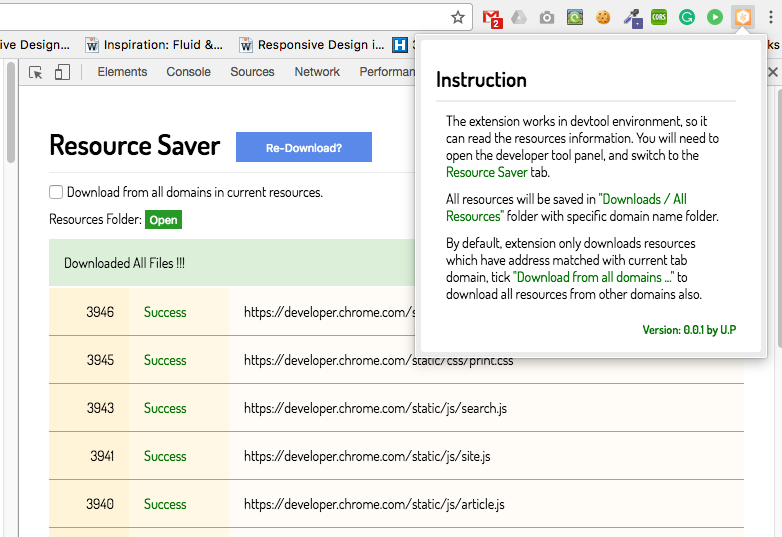
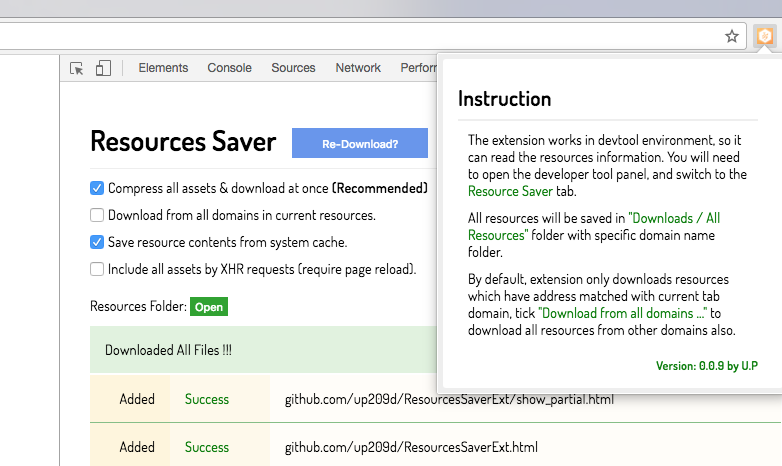
Screenshots updated

diff --git a/unpacked/content.js b/unpacked/content.js
@@ -437,7 +437,7 @@ function addItemsToZipWriter(blobWriter, items, callback) {
       try {
         var tryAtob = atob(item.content);
       } catch (err) {
-        console.log('Not Base64 fallback to text');
+        console.log(item.url, ' is not base64 encoding, fallback to plain text');
         item.encoding = null;
       }
     }
@@ -455,9 +455,10 @@ function addItemsToZipWriter(blobWriter, items, callback) {
           function () {
             // On Success
             addItemsToZipWriter(blobWriter, rest, callback);
-          
+            
+            // Update Report Table
             newList.className = 'each-done';
-            newList.innerHTML = '<li>Done</li><li class="success">Success</li><li>' + item.url + '</li>';
+            newList.innerHTML = '<li>Added</li><li class="success">Success</li><li>' + item.url + '</li>';
             document.getElementById('debug').insertBefore(newList, document.getElementById('debug').childNodes[0]);
           },
           function () {
@@ -465,11 +466,15 @@ function addItemsToZipWriter(blobWriter, items, callback) {
           }
         );
       } else {
-        // If no size, skip to next item
+        
         console.log('EXCLUDED: ',item);
+        
+        // Update Report Table
         newList.className = 'each-failed';
-        newList.innerHTML = '<li>Failed</li><li class="failed">Failed</li><li>' + item.url + '</li>';
+        newList.innerHTML = '<li>Excluded</li><li class="failed">Failed</li><li>' + item.url + '</li>';
         document.getElementById('debug').insertBefore(newList, document.getElementById('debug').childNodes[0]);
+        
+        // If no size, skip to next item
         addItemsToZipWriter(blobWriter, rest, callback);
       }
     });

diff --git a/README.md b/README.md
@@ -4,12 +4,11 @@
 
 Extension can be found here:
 
-
 https://chrome.google.com/webstore/detail/save-all-resources/abpdnfjocnmdomablahdcfnoggeeiedb?hl=en-US
 
-- 0.0.9: Add compressing ([zip.js](https://gildas-lormeau.github.io/zip.js/)) option that fetch all assets from browser cache, compress and download them at once. Thanks to [@shanligang](https://github.com/shanligang) for your great idea and contribution!
+- 0.0.9: Add a compressing option that fetch all resources from browser-cache, compress([zip.js](https://gildas-lormeau.github.io/zip.js/)) & download at once. Thanks to [@shanligang](https://github.com/shanligang) for great idea/contribution!
 
-- 0.0.8: Continue download on chrome runtime error, bug fixes, violating path fixes.
+- 0.0.8: Continue download on Chrome runtime error, bug fixes, violating path fixes.
 
 - 0.0.7: Violating path fixes.
 
